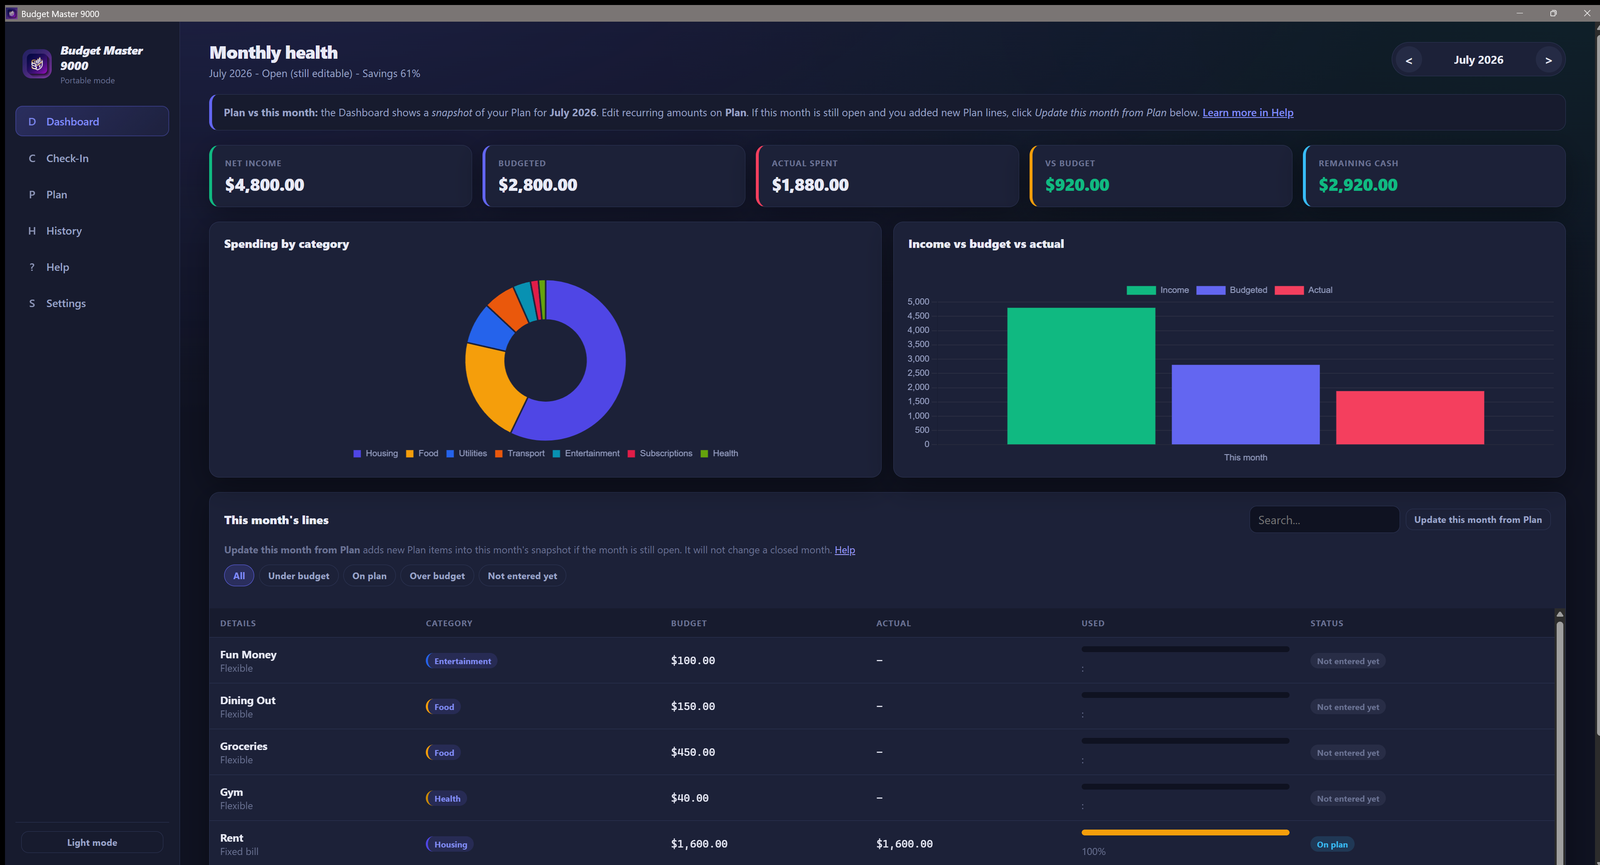
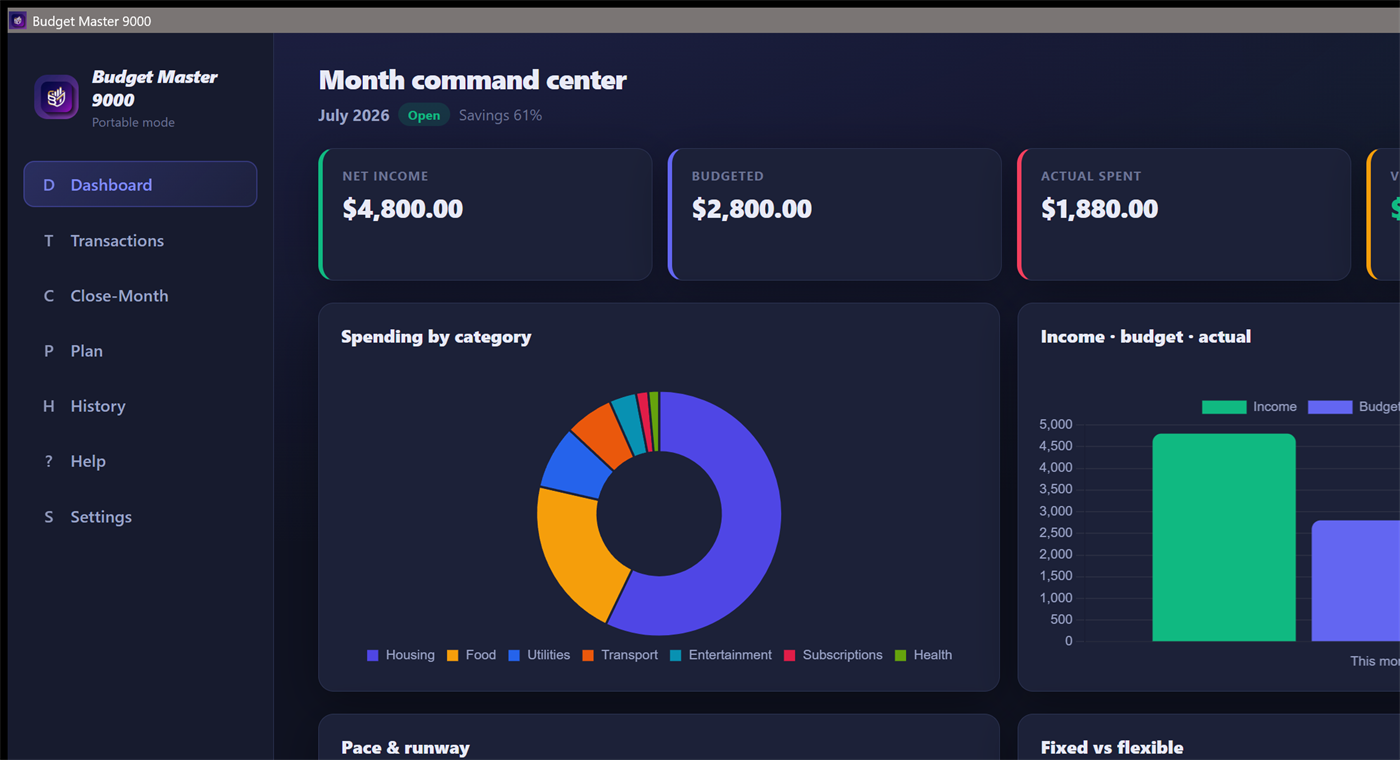
Docs: refresh README and screenshots for v1.1.0.
Capture current Dashboard, Transactions, Plan, Close-Month, History, Help, and Settings. Drop outdated Check-In / Multi-Entry wording.

diff --git a/README.md b/README.md
@@ -31,11 +31,11 @@ You get a calm desktop app that answers the only questions that matter:
 - What did I *actually* spend?
 - Where did I do well, and where should I tighten up?
 
-Built for people who like a simple plan, a monthly ritual, and data that never leaves their PC.
+Built for people who like a simple plan, spending logged as it happens, and data that never leaves their PC.
 
-![Dashboard: monthly health, income, budget, charts](docs/screenshots/01-dashboard.png)
+![Dashboard: month command center](docs/screenshots/01-dashboard.png)
 
-*See this month at a glance: income, budgeted totals, actuals, and high-contrast spending charts.*
+*See the month at a glance: income, budget, actuals, charts, pace, and what needs attention.*
 
 ---
 
@@ -46,8 +46,9 @@ Built for people who like a simple plan, a monthly ritual, and data that never l
 
 | Download | New install | Upgrade |
 |----------|-------------|---------|
-| **Installer** (setup `.exe` or `.msi`) | Run it. Open from Start menu or desktop. | Download the new setup and run it again. Your budget stays in AppData automatically. |
-| **Portable** (`BudgetMaster9000.exe`) | Save it anywhere. Double‑click it. | Download the new `.exe` and **replace** the old one in the **same folder**. Your `bm9000.db` next to it is left alone. |
+| **Installer** (setup `.exe` or `.msi`) | Run it. Open from Start menu or desktop. | Run the new setup. Your budget stays in AppData automatically. |
+| **Portable** (`BudgetMaster9000.exe`) | Save it anywhere. Double‑click it. | Replace the `.exe` in the **same folder**. Leave `bm9000.db` alone. |
+| **Windows zip** | Unpack, then use the installer or portable file inside. | Same as above; includes short upgrade notes. |
 
 That’s it. No copying databases, no editing config files, no setup scripts.
 
@@ -61,54 +62,60 @@ On first launch the app creates your local database, then offers **Start blank**
 
 | | |
 |---|---|
-| **Month-first dashboard** | Command center: KPIs, charts, pace, runway, and attention reports. |
-| **Transactions** | Log spending anytime: add to totals, Multi-Entry, edit/delete month lines. |
-| **Plan vs Actual** | Recurring plan is your template. Each month is a snapshot you can still update while open. |
-| **Close-Month** | Verify numbers when you are ready, then close with a letter grade and tips. Fixed bills auto-fill. |
-| **Fixed vs Flexible categories** | Mark housing and subscriptions Fixed. Mark food and fun Flexible. |
+| **Dashboard** | Month command center: KPIs, charts, pace, cash runway, and attention reports. |
+| **Transactions** | Log spending anytime. Pick a line, enter an amount, submit — totals stack as you go. |
+| **Plan** | Recurring budget template. Open months update automatically when you change the Plan. |
+| **Close-Month** | When you are ready, verify numbers and lock the month with a letter grade and tips. |
+| **Fixed vs Flexible** | Fixed bills stay on plan; flexible items are what you track through the month. |
 | **History** | Closed months keep their grades. Reopen only when you need to fix something. |
-| **Import / export** | Bring in an older backup, or export a full backup anytime. |
+| **Import / export** | Full backups anytime. |
 | **Optional App Lock** | Passphrase gate for shared computers. |
-| **Portable** | One file. Run it. Your database appears next to it automatically. |
-| **Built-in Help** | Searchable guides written for humans, not accountants. |
+| **Portable or installed** | One portable file, or a normal installer — your choice. |
+| **Built-in Help** | Searchable guides written for first-time users. |
 
 ---
 
 ## Screenshots
 
-### Dashboard: this month’s story
+### Dashboard: the month command center
 
 ![Dashboard overview](docs/screenshots/01-dashboard.png)
 
-Net income, budgeted total, actuals, variance, remaining cash, and charts with high-contrast slices so categories stay easy to tell apart.
+Income, budgeted totals, actuals, remaining cash, high-contrast charts, pace, and what needs attention.
+
+### Transactions: log spending as it happens
+
+![Transactions](docs/screenshots/02-transactions.png)
+
+Choose a budget line, enter what you spent, and submit. Edit or delete entries for the open month.
 
 ### Plan: set it once, reuse every month
 
-![Plan editor](docs/screenshots/02-plan.png)
+![Plan editor](docs/screenshots/03-plan.png)
 
-Add recurring lines (weekly, monthly, or yearly). Categories own Fixed vs Flexible so the whole plan stays consistent.
+Recurring lines (weekly, monthly, or yearly). Categories are Fixed or Flexible so the plan stays consistent.
 
-### Check-In: close the month with a real scorecard
+### Close-Month: verify, then lock it in
 
-![Monthly Check-In](docs/screenshots/03-checkin.png)
+![Close-Month](docs/screenshots/04-close-month.png)
 
-Step-by-step: confirm income, enter flexible spending, review totals, finish. Fixed bills are already treated as on plan.
+A short walkthrough: confirm income, review flexible spending, finish with a grade and plain-language tips.
 
 ### History: grades you can understand
 
-![History of months](docs/screenshots/04-history.png)
+![History of months](docs/screenshots/05-history.png)
 
-Browse past months, jump to any month on the Dashboard, or reopen a closed month when you need to correct numbers (then run Check-In again).
+Browse past months, open any month on the Dashboard, or reopen a closed month to correct numbers.
 
 ### Help: answers in plain language
 
-![In-app Help](docs/screenshots/05-help.png)
+![In-app Help](docs/screenshots/06-help.png)
 
-Search topics like Fixed vs Flexible, Plan vs Dashboard, grades, import, and security.
+Search topics like transactions, plan, grades, backups, install/upgrade, and privacy.
 
 ### Settings: income, lock, backup, and a safe reset
 
-![Settings](docs/screenshots/06-settings.png)
+![Settings](docs/screenshots/07-settings.png)
 
 Net monthly income drives the math. Optional App Lock. Export backups. Clear data only if you type `DELETE DATA`.
 
@@ -116,13 +123,13 @@ Net monthly income drives the math. Optional App Lock. Export backups. Clear dat
 
 ## How a typical month looks
 
-1. **Plan** once (or import a backup).
-2. Live the month — log spending on **Transactions** anytime (or Multi-Entry by category).
-3. Open **Close-Month** when ready, verify totals, finish.
-4. Read the grade and the “needs attention” list on the Dashboard / scorecard.
-5. Adjust next month’s Plan if something consistently overruns.
+1. Build your **Plan** (or import a backup) and set net income under **Settings**.
+2. Live the month — record spending on **Transactions** whenever it happens.
+3. Check progress on the **Dashboard**.
+4. When you are ready, open **Close-Month**, verify totals, and finish.
+5. Use the grade and “needs attention” notes to adjust next month’s Plan if something keeps overrunning.
 
-Fixed bills (rent, insurance, streaming) fill themselves so they do not show as “not entered.”
+Fixed bills (rent, insurance, streaming) fill themselves so they do not sit as “not entered.”
 
 ---
 
@@ -134,6 +141,8 @@ Fixed bills (rent, insurance, streaming) fill themselves so they do not show as 
 - **No telemetry**
 
 Everything stays on your computer. Optional App Lock is for casual privacy on a shared PC — not a substitute for full-disk encryption (BitLocker) or a good Windows password. Export backups before major changes. Clearing the database is permanent without a backup.
+
+Optional update checks contact GitHub only when the app looks for a newer release, and only download a package if you ask.
 
 ---
 
